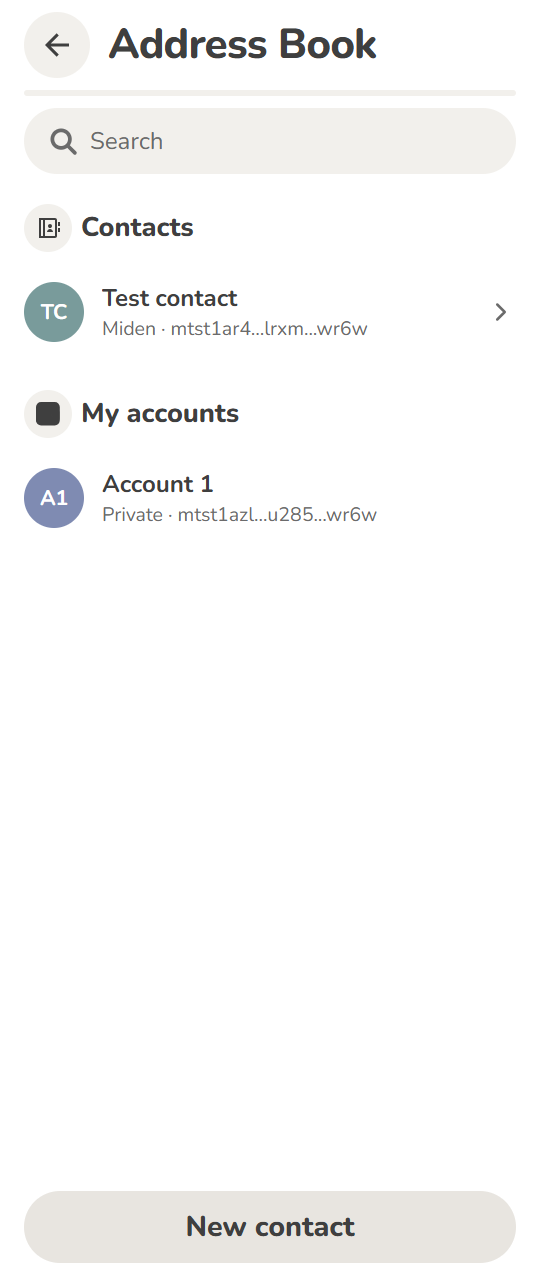
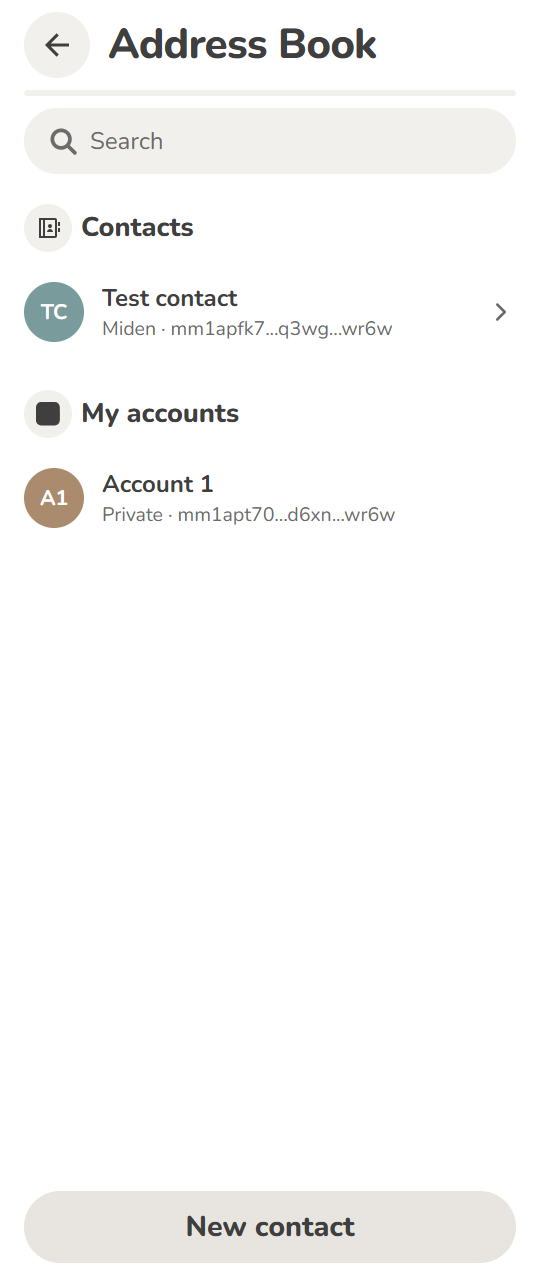
content: E63 to E65 retaken on mainnet wallet 1.17.6

Changed region(s): [[0.3556, 0.373, 0.7111, 0.404], [0.3556, 0.2486, 0.7111, 0.2797], [0.0296, 0.3419, 0.1778, 0.4351]]

diff --git a/tasks/screenshot-capture-sheet.md b/tasks/screenshot-capture-sheet.md
@@ -15,7 +15,7 @@ given screenshot came from, and "the store release" stops meaning anything as so
 | Mobile retake (issue #34) | **1.16.2** | done, 2026-10-02, by hand on iPhone; see *Mobile retake on 1.16.2* below |
 | Extension, Earn articles | **1.16.2** | done, 2026-10-06, automated; E35 to E47, see *L. Earn* below. E46 is to be retaken |
 | Extension, Settings FAQs | **1.17.1** | done, 2026-10-09, automated; E48 to E65, see *M. Settings* below |
-| Extension, mainnet audit | **1.17.6** | done, 2026-10-25, automated on mainnet; 18 retaken, see *Extension mainnet audit on 1.17.6* below |
+| Extension, mainnet audit | **1.17.6** | done, 2026-10-25, automated on mainnet; 21 retaken, see *Extension mainnet audit on 1.17.6* below |
 
 1.16.1 is what Settings reports in the build being captured. It supersedes the 1.16.0 this sheet carried,
 which came from the store listing — the installed build is the authority, not the listing.
@@ -28,13 +28,13 @@ Every Extension screenshot an article shows was compared, as an image, with the 
 Welcome opens with seven clicks on the logo, then **I don't have a code** > **Recover your account**.
 File names, IDs and sizes are unchanged.
 
-- Retaken: E19 to E28, E32 to E34, E48, E57 to E59, E61. **Profile** replaces **Settings** and the tab
+- Retaken: E19 to E28, E32 to E34, E48, E57 to E59, E61, E63 to E65 (the test contact was a second
+  mainnet address of Ivan's, deleted afterwards). **Profile** replaces **Settings** and the tab
   bar has four icons; the Guardian list, the Activity tabs (**Transfer** replaces **Received**) and the
   spending-limit chips changed.
 - Unchanged, kept: E49 to E56, E60, E62. E52 differs only by an empty password placeholder.
 - Not retaken: E01, E01a and E02 (taken by hand); E35 to E47 (Earn is not available on mainnet);
-  E30 and E31 (1.17.6 no longer shows **Retry** after an interrupted accept, only after a real error);
-  E63 to E65 (they need a second mainnet address for the test contact).
+  E30 and E31 (1.17.6 no longer shows **Retry** after an interrupted accept, only after a real error).
 - Side panel: 1.17.6 opens a popup until a person finishes onboarding. The real panel, opened by
   hand, measured 540 x 1287, the same as the 360 x 858 tab at 1.5x.
 

diff --git a/tasks/todo.md b/tasks/todo.md
@@ -1398,8 +1398,8 @@ Seven FAQs (articles 52 to 58, FAQ 29 to 35) were written against the Extension 
 
 ## Extension mainnet audit on 1.17.6 — open items (2026-10-25)
 
-- [ ] E63, E64, E65 (save, edit, delete a contact): still show testnet addresses. Closes with a second
-      mainnet address to save as the test contact; the wallet refuses its own (**This is one of your accounts**).
+- [x] E63, E64, E65 (save, edit, delete a contact): retaken 2026-10-25 with a second mainnet address
+      of Ivan's as the test contact, deleted afterwards.
 - [ ] E30, E31 (**Retry**): still the 1.16.2 testnet images. 1.17.6 returns an interrupted accept to
       **Accept Transfer**; **Retry** appears only when queuing the accept fails with a real error. Closes
       with a genuine failed accept on mainnet.
